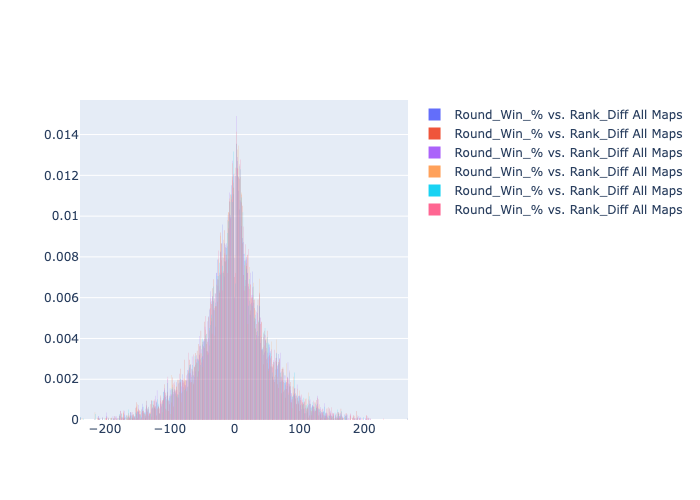
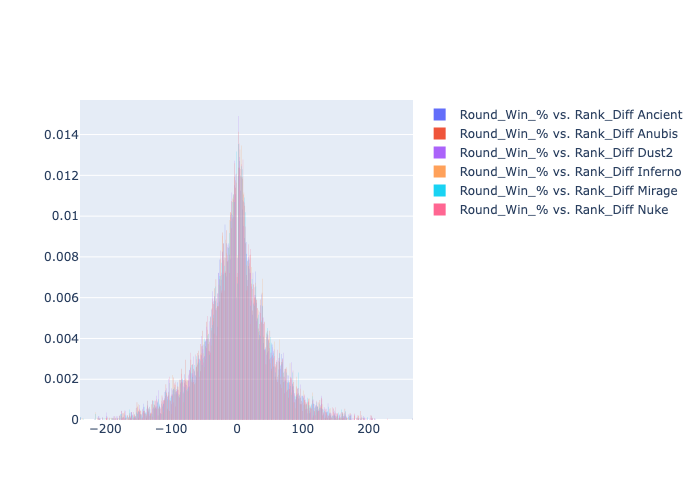
Legend

diff --git a/RoundWin_RankDiff.py b/RoundWin_RankDiff.py
@@ -74,7 +74,7 @@ for map_name in all_maps:
                                                 name= 'Round_Win_% vs. Rank_Diff  ' + map_name))
     fig3.add_trace(go.Histogram(x= temp['Rank_Diff'], y= temp['Round_Win_%'],
                                                     histnorm= 'probability density', 
-                                                    name= 'Round_Win_% vs. Rank_Diff All Maps',
+                                                    name= 'Round_Win_% vs. Rank_Diff ' + map_name,
                                                     marker_color= colors[i]))
     figs += [fig, fig2]
     i += 1
